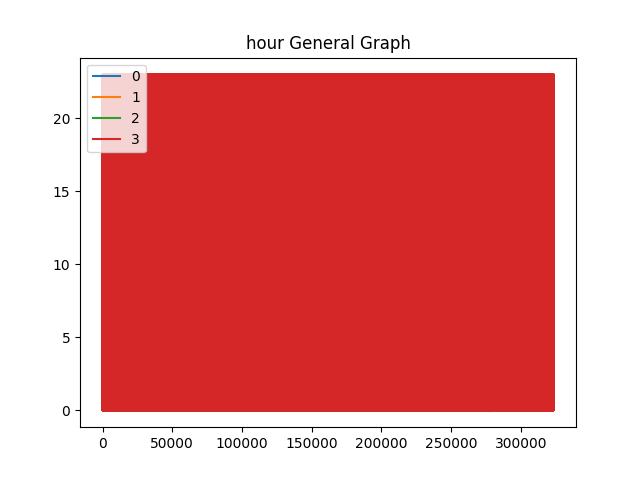
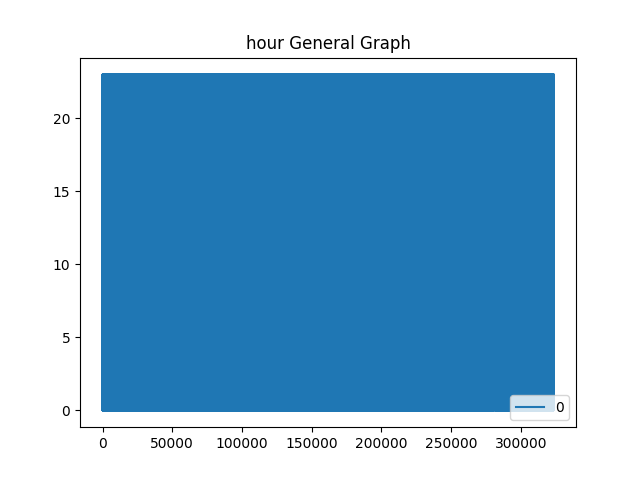
Added Graphs Added Machine Learning

diff --git a/graph_generator.py b/graph_generator.py
@@ -17,31 +17,14 @@ def bar_graph_to_file(df, column1, column2):
     :param column2: Y axis column
     """
     table = pd.crosstab(df[column2], df[column1])
-    table.plot(kind='bar', figsize=(10, 6))
+    table.plot(kind='bar', figsize=(10, 10))
     plt.title("{} vs. {}".format(column1, column2))
     plt.xlabel(column2)
     plt.ylabel(column1)
     plt.legend(consts.columns_description[column1])
     # plt.show()
-    plt.savefig('graphs/{}_vs_{}.png'.format(column1, column2))
-
-
-def average_graph_to_file(df, base_column, columns_list):
-    """
-    This function generates base_column to columns_list average graph to PNG file
-    :param df: given DataFrame
-    :param base_column: base columns to be compared to
-    :param columns_list: columns to be compared with base_column (average)
-    """
-    graph = df.groupby([base_column]).mean()[columns_list]
-    graph.plot()
-    # plt.show()
-    plt.title("{} vs. {}".format(base_column, columns_list))
-    plt.xlabel(base_column)
-    plt.ylabel(columns_list)
-    plt.legend(columns_list)
-    # plt.show()
-    plt.savefig('graphs/{}_vs_{}.png'.format(base_column, columns_list))
+    plt.savefig('graphs/bar_graphs/{}_vs_{}.png'.format(column1, column2))
+    plt.clf()
 
 
 def scatter_plot_graph_to_file(df, x_column, y_column):
@@ -61,25 +44,8 @@ def scatter_plot_graph_to_file(df, x_column, y_column):
     plt.ylabel(y_column)
     # plt.legend(categorical_column)
     # plt.show()
-    plt.savefig('graphs/scatter_plot_{}_vs_{}.png'.format(x_column, y_column))
-
-
-def graphYearVsCount(df):
-    """
-    This function generates graph of years vs cases
-    :param df:
-    :return:
-    """
-    data = {'years': [], 'count': []}
-    for i in range(2010, 2020, 1):
-        data['years'].append(i)
-        data['count'].append(len(df[df['caseyear'] == i]))
-    new_df = pd.DataFrame(data)
-    new_df.plot(x='years')
-    plt.title("{} vs. {}".format('years', 'count'))
-    plt.ylim(0, 40000)
-    # plt.show()
-    plt.savefig('graphs/{}vs{}.png'.format('years', 'count'))
+    plt.savefig('graphs/scatter_plots/scatter_plot_{}_vs_{}.png'.format(x_column, y_column))
+    plt.clf()
 
 
 def pie_graph(df, column):
@@ -88,7 +54,7 @@ def pie_graph(df, column):
     :param df:
     :return:
     """
-    fig = plt.figure(figsize=(20, 20))
+    fig = plt.figure(figsize=(30, 30))
     try:
         df[column].value_counts(sort=False).plot(kind='pie', autopct="%.2f", labels=consts.columns_description[column])
         # print(df[column].value_counts(sort=False))
@@ -104,6 +70,7 @@ def pie_graph(df, column):
 
     plt.title("{} Pie Graph".format(column))
     plt.savefig('graphs/pie/{}_graph_pie.png'.format(column))
+    plt.clf()
 
 
 def general_overview(df, column):
@@ -135,6 +102,7 @@ def general_overview_column(df, column):
 
     plt.title("{} General Graph".format(column))
     plt.savefig('graphs/general_overview_column/{}_column_general_overview.png'.format(column))
+    plt.clf()
 
 
 def box_graph(df):
@@ -156,15 +124,32 @@ def box_graph_column(df, column):
         df[column].plot.box(figsize=(10, 10))
         plt.title("{} Box Graph".format(column))
         plt.savefig('graphs/box/{}_box_graph.png'.format(column))
+        plt.clf()
     except Exception as e:
         print(e)
 
 
-def test(df, column):
+def kde(df, column):
     """
-    This function generates general graph
+    This function generates kde graph
     :param df:
     """
     df[column].plot.kde()
-    plt.title("{} stacked Graph".format(column))
-    plt.savefig('graphs/{}_stacked_graph.png'.format(column))
+    plt.title("{} Kde Graph".format(column))
+    plt.savefig('graphs/kde/{}_kde_graph.png'.format(column))
+    plt.clf()
+
+
+def seaborn_graphs_lineplot(data, x, y):
+    sns.set_theme(style="darkgrid")
+    graph = sns.lineplot(x=x, y=y, data=data)
+    plt.savefig("graphs/sns/{}_{}.png".format(x,y))
+    plt.clf()
+
+
+def seaborn_graphs_catplot(data, x, y):
+    sns.set_theme(style="darkgrid")
+    sns.histplot(data, x=x, hue=y, linewidth=2)
+    plt.savefig("graphs/sns.catplot/{}_{}.png".format(x,y))
+    plt.clf()
+

diff --git a/machine_learning.py b/machine_learning.py
@@ -1,44 +1,46 @@
 "This file will handle the machine learning part of the projectimport pandas as pd"
-"""
-Question: מתי במהלך היום יש את הכמות הגדולה ביותר של תאונות, וכך נוכל להזהיר נהגים.
-Q: באיזה חודשים יש את כמות התאונות הגדולה ביותר
-Q: השאלה המרכזית: בעקבות הנתונים שקיבלנו, נוציא אזהרה לנהגים 
-לשלב את זה בWAZE וברגע שמזהים שעה בעייתית להזהיר את הנהג
-"""
 
 ###Importing Libraries
 import pandas as pd
 from sklearn import datasets
-from sklearn.tree import DecisionTreeClassifier as DTC
+from sklearn.tree import DecisionTreeClassifier
 from sklearn.model_selection import train_test_split as tts
 from sklearn import metrics
+from sklearn import tree
+import matplotlib.pyplot as plt
 
-###Importing Dataset
-iris = datasets.load_iris()
 
-###Constructing Data Frame
-a=pd.read_csv('result_after_cleaning.csv')
-data = pd.DataFrame(a)
-# print(data["species"])
+def create_prediction(data, columns1, column2):
+    ###Constructing Data Frame
+    decisionTree = tree.DecisionTreeClassifier()
 
-###Splitting train/test data
-x=data[['hour']]
-y=data["day_week"]
-X_tr, X_ts, y_tr, y_ts = tts(x, y, test_size=30/100, random_state=None)
+    ###Splitting train/test data
+    x=data[columns1]
+    y=data[column2]
+    X_tr, X_ts, y_tr, y_ts = tts(x, y, test_size=20/100, random_state=None)
 
-###Creating Decision Tree Classifier Model
-DT = DTC()
+    ###Creating Decision Tree Classifier Model
+    # DT = DTC()
+    decisionTree = decisionTree.fit(X_tr, y_tr)
+    fig, axes = plt.subplots(nrows = 1,ncols = 1,figsize = (30,30), dpi=600)
 
-###Training the Model
-DT.fit(X_tr,y_tr)
+    tree.plot_tree(decisionTree)
+    fig.savefig('machine_learning_trees/decision_tree_{}_to_{}.png'.format(columns1, column2))
+    #
+    ###Training the Model
+    decisionTree.fit(X_tr,y_tr)
 
-###Making Predictions
-y_pr=DT.predict(X_ts)
-print(y_pr)
+    ###Making Predictions
+    y_pr=decisionTree.predict(X_ts)
 
-###Evaluating Prediction Accuracy
-print("Acc %:",metrics.accuracy_score(y_ts, y_pr)*100)
+    ###Evaluating Prediction Accuracy
+    print("Acc %:", metrics.accuracy_score(y_ts, y_pr)*100)
 
-###Making Prediction with Foreign Data
-print(DT.predict([[1]]))
+    ###Making Prediction with Foreign Data
+    # while loop to make predictions:
+
+    # while True:
+    #     print("Enter {}".format(columns1))
+    #     decisionTree.predict(decisionTree, ['state', 'lgt_cond', 'hour'], ['fatals'])
+
 

diff --git a/main.py b/main.py
@@ -2,12 +2,15 @@ import process_data_helper as helper
 import graph_generator
 import pandas as pd
 import const_variables as consts
-#
-# helper.create_merged_file()  # creates clean csv file
+import machine_learning
 
+# 1. Handle Data:
+# helper.create_merged_file()  # creates clean csv file
 data = pd.read_csv(consts.data_file_path)  # open Dataframe with combined data
 helper.clear_undefined_values(data)
-data.to_csv("result_after_cleaning.csv")
+# data.to_csv("result_after_cleaning.csv")  # save the cleaned data to csv
+
+# 2. Graph Generator:
 
 # for key in consts.columns_description.keys():  # this code generates all pie graphs
 #     graph_generator.pie_graph(data, key)
@@ -17,6 +20,35 @@ data.to_csv("result_after_cleaning.csv")
 
 # for key in consts.columns_description.keys():  # this code generates all pie graphs
 #     graph_generator.box_graph_column(data, key)
+
+# for key in consts.columns_description.keys():  #create seaborn graphs
+#     for key2 in consts.columns_description.keys():
+#         graph_generator.seaborn_graphs_lineplot(data, key, key2)
+
+# for key in consts.columns_description.keys():  # Create bar graphs
+#     for key2 in consts.columns_description.keys():
+#         graph_generator.bar_graph_to_file(data, key, key2)
+
+# for key in consts.columns_description.keys():  # Create Scatter Plots graphs
+#     for key2 in consts.columns_description.keys():
+#         graph_generator.scatter_plot_graph_to_file(data, key, key2)
+
+# for key in consts.columns_description.keys():  #create seaborn graphs
+#     graph_generator.kde(data, key)
+
+# for key in consts.columns_description.keys():  #create seaborn graphs
+#     for key2 in consts.columns_description.keys():
+#         graph_generator.seaborn_graphs_catplot(data, key, key2)
+
+
+
+
+
+## 3. Machine Learning:
+# machine_learning.create_prediction(data, ['month', 'state', 'weather','lgt_cond'], 'fatals')
+# machine_learning.create_prediction(data, ['month', 'state', 'weather','lgt_cond'], 'harm_ev')
+
+
 
 
 """

diff --git a/const_variables.py b/const_variables.py
@@ -109,6 +109,16 @@ columns_description = {'weather': ['Clear',
                                  'October',
                                  'November',
                                  'December'],
+                       'caseyear': [ '2010',
+                                 '2011',
+                                 '2012',
+                                 '2013',
+                                 '2014',
+                                 '2015',
+                                 '2016',
+                                 '2017',
+                                 '2018',
+                                 '2019'],
                        'day_week': ['Sunday',
                                     'Monday',
                                     'Tuesday',
